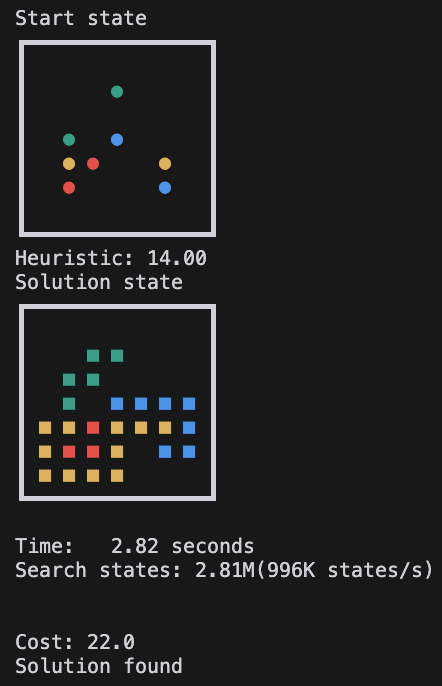
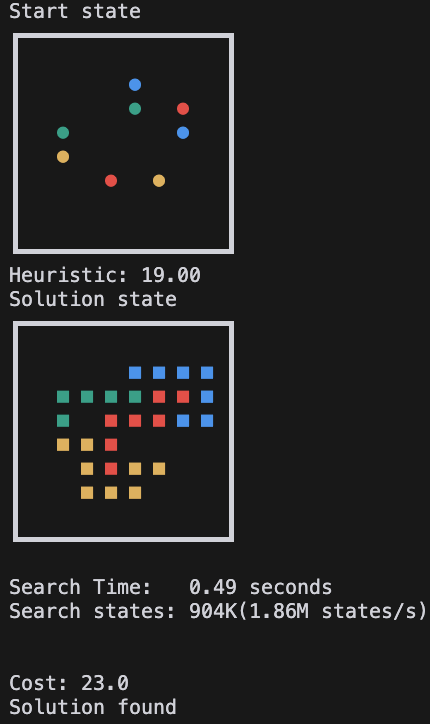
optimize with packing bits

diff --git a/puzzle/dotknot.py b/puzzle/dotknot.py
@@ -40,6 +40,8 @@ class DotKnot(Puzzle):
         return False
 
     def __init__(self, size: int, color_num: int = 4):
+        assert size % 2 == 0, "Size must be even"
+        assert size >= 4, "Size must be at least 4 for packing"
         self.size = size
         self.color_num = color_num
         super().__init__()
@@ -60,13 +62,38 @@ class DotKnot(Puzzle):
                 return "?"  # for debug and target
 
         def parser(state):
-            return form.format(*map(to_char, state.board))
+            unpacked = DotKnot.unpack_board(state.board)
+            return form.format(*map(to_char, unpacked))
 
         return parser
 
+    @staticmethod
+    def pack_board(board: jnp.ndarray) -> jnp.ndarray:
+        """
+        Pack a board array of shape (size * size) with cell values in 0 ~ 16
+        into a compact representation.
+        """
+        reshaped = jnp.reshape(board, (-1, 2))  # reshape to (num_pairs, 2)
+        shifts = jnp.array([0, 4], dtype=board.dtype)
+        packed = jnp.sum(reshaped * (2**shifts), axis=1).astype(jnp.uint8)
+        return packed
+
+    @staticmethod
+    def unpack_board(packed: jnp.ndarray) -> jnp.ndarray:
+        """
+        Unpack a compact board representation back to a board of shape (size * size)
+        with cell values in 0 ~ 16.
+        """
+        shifts = jnp.array([0, 4], dtype=jnp.uint8)
+        cells = jnp.stack([(packed >> shift) & 15 for shift in shifts], axis=1)
+        board = jnp.reshape(cells, (-1,))
+        return board
+
     def get_default_gen(self) -> callable:
         def gen():
-            return self.State(board=jnp.zeros((self.size * self.size), dtype=TYPE))
+            board = jnp.zeros((self.size * self.size), dtype=TYPE)
+            packed_board = DotKnot.pack_board(board)
+            return self.State(board=packed_board)
 
         return gen
 
@@ -74,9 +101,9 @@ class DotKnot(Puzzle):
         return self._get_random_state(key)
 
     def get_target_state(self, key=None) -> State:
-        return self.State(
-            board=jnp.full((self.size * self.size), -1, dtype=TYPE)
-        )  # this puzzle no target
+        board = jnp.full((self.size * self.size), -1, dtype=TYPE)
+        packed_board = DotKnot.pack_board(board)
+        return self.State(board=packed_board)  # this puzzle no target
 
     def get_neighbours(self, state: State, filled: bool = True) -> tuple[State, chex.Array]:
         """
@@ -84,30 +111,28 @@ class DotKnot(Puzzle):
         If impossible to move in a direction, cost should be inf and State should be same as input state.
         """
         # Define possible moves: up, down, left, right
-        points = (
-            jnp.arange(self.color_num, dtype=TYPE) + 1
-        )  # 1 ~ color_num: point a, color_num + 1 ~ 2 * color_num + 1: point b
+        points = jnp.arange(self.color_num, dtype=TYPE) + 1  # 1 ~ color_num: point a, etc.
         moves = jnp.array([[-1, 0], [1, 0], [0, -1], [0, 1]])
-        points, moves_idx = jnp.meshgrid(
-            points,
-            jnp.arange(4),
-        )
+        points, moves_idx = jnp.meshgrid(points, jnp.arange(4))
         points = points.reshape(-1)
         moves = moves[moves_idx.reshape(-1)]
 
-        board = state.board
+        # Unpack the board for processing
+        unpacked_board = DotKnot.unpack_board(state.board)
 
         def is_valid(new_pos, color_idx):
-            not_blocked = board[new_pos[0] * self.size + new_pos[1]] == 0
-            new_pos_color_idx = (board[new_pos[0] * self.size + new_pos[1]] - 1) % self.color_num
-            new_pos_is_point = board[new_pos[0] * self.size + new_pos[1]] <= 2 * self.color_num
+            index = new_pos[0] * self.size + new_pos[1]
+            not_blocked = unpacked_board[index] == 0
+            new_pos_color_idx = (unpacked_board[index] - 1) % self.color_num
+            new_pos_is_point = unpacked_board[index] <= 2 * self.color_num
             is_merge = (new_pos_color_idx == color_idx) & new_pos_is_point & ~not_blocked
-            return is_merge, (
+            valid = (
                 (new_pos >= 0).all()
                 & (new_pos < self.size).all()
                 & (not_blocked | is_merge)
                 & filled
             )
+            return is_merge, valid
 
         def point_move(board, pos, new_pos, point_idx, color_idx, is_merge):
             flat_index = pos[0] * self.size + pos[1]
@@ -116,38 +141,34 @@ class DotKnot(Puzzle):
                 is_merge,
                 board.at[next_flat_index].set(color_idx + 2 * self.color_num + 1),
                 board.at[next_flat_index].set(point_idx),
-            )  # new point
-            return board.at[flat_index].set(color_idx + 2 * self.color_num + 1)  # old point is line
+            )
+            return board.at[flat_index].set(color_idx + 2 * self.color_num + 1)
 
-        def move(state, point, move):
+        def move(state, point, move_vector):
             point_idx = point
             color_idx = (point_idx - 1) % self.color_num
             available, pos = self._getBlankPosition(state, point_idx)
-            new_pos = (pos + move).astype(TYPE)
-
+            new_pos = (pos + move_vector).astype(TYPE)
             is_merge, valid_move = is_valid(new_pos, color_idx)
             valid_move = valid_move & available
             new_board = jax.lax.cond(
                 valid_move,
-                lambda _: point_move(board, pos, new_pos, point_idx, color_idx, is_merge),
-                lambda _: board,
-                None,
+                lambda _: point_move(unpacked_board, pos, new_pos, point_idx, color_idx, is_merge),
+                lambda _: unpacked_board,
+                operand=None,
             )
-            new_state = self.State(board=new_board)
-
-            # Cost is 1 for valid moves, inf for invalid moves
+            new_state = self.State(board=DotKnot.pack_board(new_board))
             cost = jnp.where(valid_move, 1.0, jnp.inf)
-
             return new_state, cost
 
-        # Apply the move function to all possible moves
         new_states, costs = jax.vmap(move, in_axes=(None, 0, 0))(state, points, moves)
         return new_states, costs
 
     def is_solved(self, state: State, target: State) -> bool:
-        empty = jnp.all(state.board == 0)  # ALL empty is not solved condition
-        gr = jnp.greater_equal(state.board, 1)  # ALL point a is solved condition
-        le = jnp.less_equal(state.board, self.color_num * 2)  # ALL point b is solved condition
+        unpacked = DotKnot.unpack_board(state.board)
+        empty = jnp.all(unpacked == 0)  # ALL empty is not solved condition
+        gr = jnp.greater_equal(unpacked, 1)  # ALL point a is solved condition
+        le = jnp.less_equal(unpacked, self.color_num * 2)  # ALL point b is solved condition
         points = gr & le
         no_point = ~jnp.any(points)  # if there is no point, it is solved
         return no_point & ~empty
@@ -177,24 +198,24 @@ class DotKnot(Puzzle):
             form += "┃ "
             for j in range(size):
                 form += "{:s} "
-            form += "┃"
-            form += "\n"
+            form += "┃" + "\n"
         form += "┗━"
         for i in range(size):
             form += "━━" if i != size - 1 else "━━┛"
         return form
 
     def _getBlankPosition(self, state: State, idx: int):
-        one_hot = state.board == idx
+        unpacked_board = DotKnot.unpack_board(state.board)
+        one_hot = unpacked_board == idx
         available = jnp.any(one_hot)
         flat_index = jnp.argmax(one_hot)
-        return available, jnp.stack(jnp.unravel_index(flat_index, (self.size, self.size)))
+        pos = jnp.stack(jnp.unravel_index(flat_index, (self.size, self.size)))
+        return available, pos
 
     def _get_random_state(self, key, num_shuffle=30):
         """
         This function should return a random state.
         """
-
         init_board = jnp.zeros((self.size * self.size), dtype=TYPE)
 
         def _while_loop(val):
@@ -206,7 +227,10 @@ class DotKnot(Puzzle):
             random_index = pos[0] * self.size + pos[1]
             is_already_filled = board[random_index] != 0
             board = jax.lax.cond(
-                is_already_filled, lambda _: board, lambda _: board.at[random_index].set(idx), None
+                is_already_filled,
+                lambda _: board,
+                lambda _: board.at[random_index].set(idx),
+                operand=None,
             )
             next_idx = jnp.where(is_already_filled, idx, idx + 1)
             return board, key, next_idx
@@ -214,5 +238,5 @@ class DotKnot(Puzzle):
         board, _, _ = jax.lax.while_loop(
             lambda val: val[2] < self.color_num * 2 + 1, _while_loop, (init_board, key, 1)
         )
-        state = self.State(board=board)
-        return state
+        packed_board = DotKnot.pack_board(board)
+        return self.State(board=packed_board)

diff --git a/heuristic/dotknot_heuristic.py b/heuristic/dotknot_heuristic.py
@@ -22,12 +22,13 @@ class DotKnotHeuristic(Heuristic):
         """
         Get distance for solving puzzle.
         """
-        point_a = current.board == (color_idx + 1)
+        unpacked = DotKnot.unpack_board(current.board)
+        point_a = unpacked == (color_idx + 1)
         point_a_available = jnp.any(point_a)
         point_a_pos = jnp.stack(
             jnp.unravel_index(jnp.argmax(point_a), (self.puzzle.size, self.puzzle.size))
         )
-        point_b = current.board == (color_idx + self.puzzle.color_num + 1)
+        point_b = unpacked == (color_idx + self.puzzle.color_num + 1)
         point_b_pos = jnp.stack(
             jnp.unravel_index(jnp.argmax(point_b), (self.puzzle.size, self.puzzle.size))
         )

diff --git a/qfunction/dotknot_q.py b/qfunction/dotknot_q.py
@@ -30,12 +30,13 @@ class DotKnotQ(QFunction):
         """
         Get distance for solving puzzle.
         """
-        point_a = current.board == (color_idx + 1)
+        unpacked = DotKnot.unpack_board(current.board)
+        point_a = unpacked == (color_idx + 1)
         point_a_available = jnp.any(point_a)
         point_a_pos = jnp.stack(
             jnp.unravel_index(jnp.argmax(point_a), (self.puzzle.size, self.puzzle.size))
         )
-        point_b = current.board == (color_idx + self.puzzle.color_num + 1)
+        point_b = unpacked == (color_idx + self.puzzle.color_num + 1)
         point_b_pos = jnp.stack(
             jnp.unravel_index(jnp.argmax(point_b), (self.puzzle.size, self.puzzle.size))
         )

diff --git a/puzzle_config.py b/puzzle_config.py
@@ -31,7 +31,7 @@ default_puzzle_sizes = {
     "lightsout": 7,
     "rubikscube": 3,
     "maze": 20,
-    "dotknot": 7,
+    "dotknot": 8,
     "sokoban": 10,
 }
 
